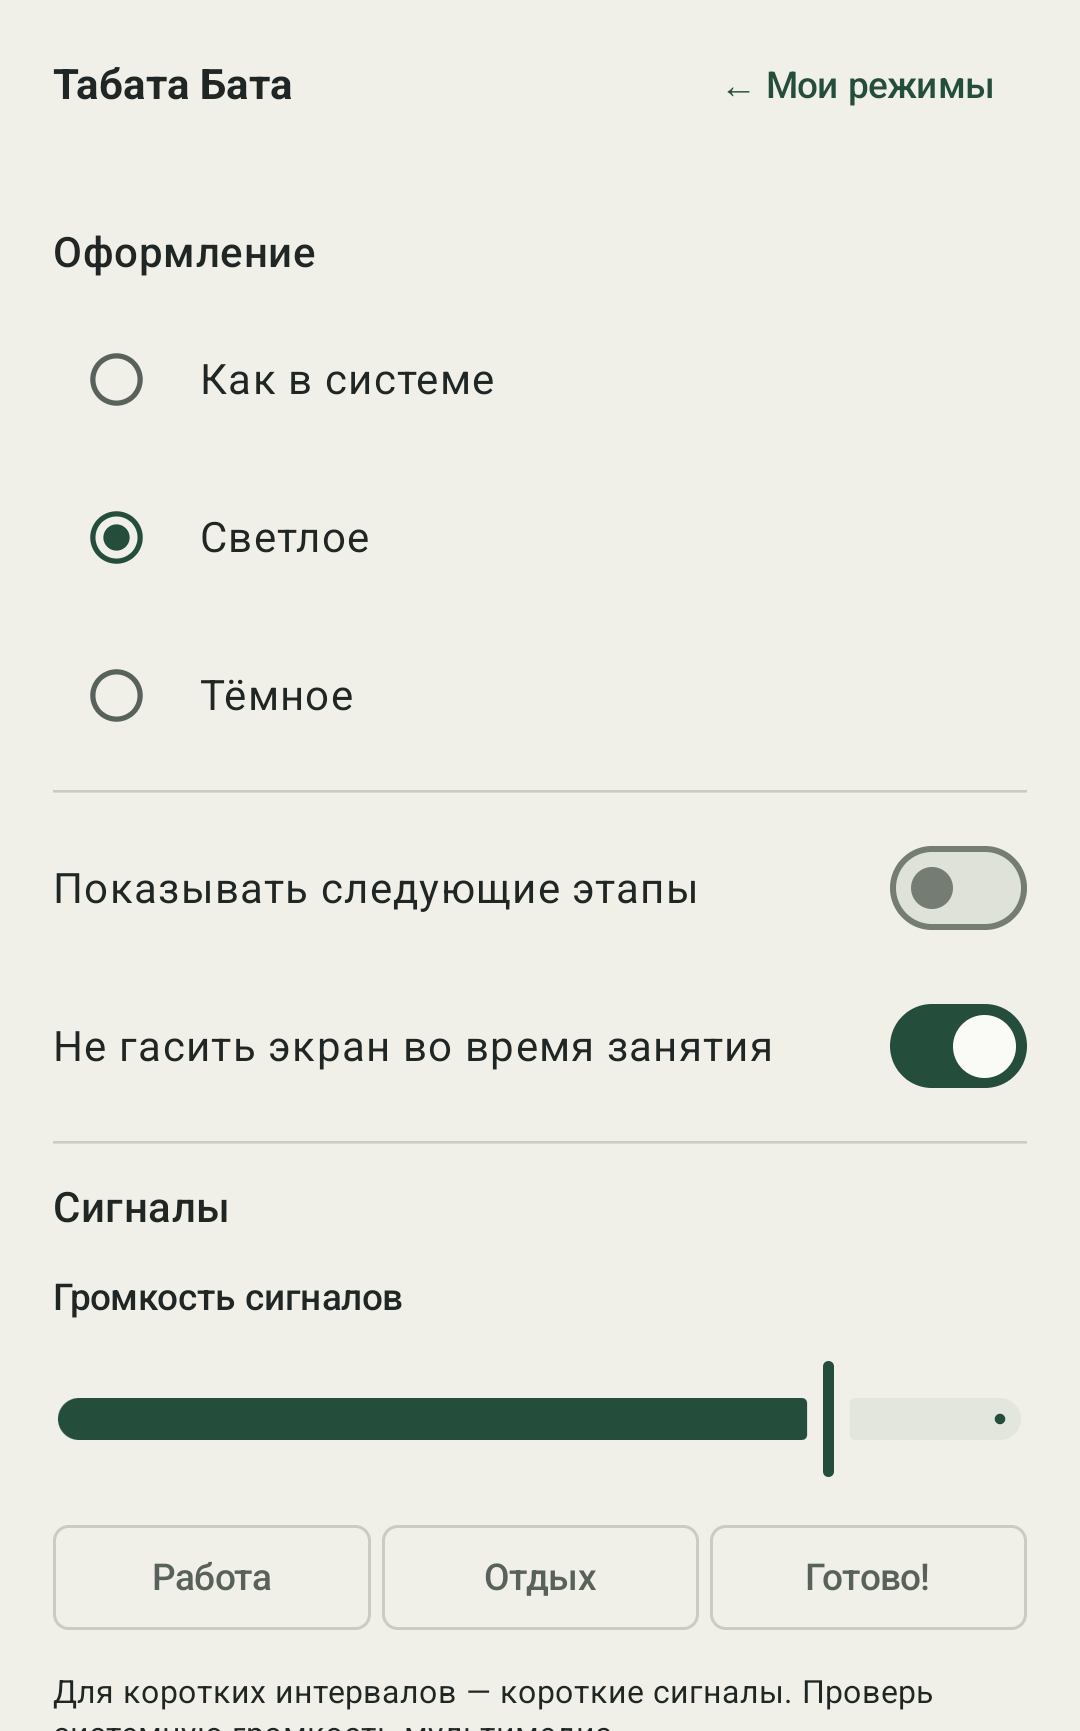
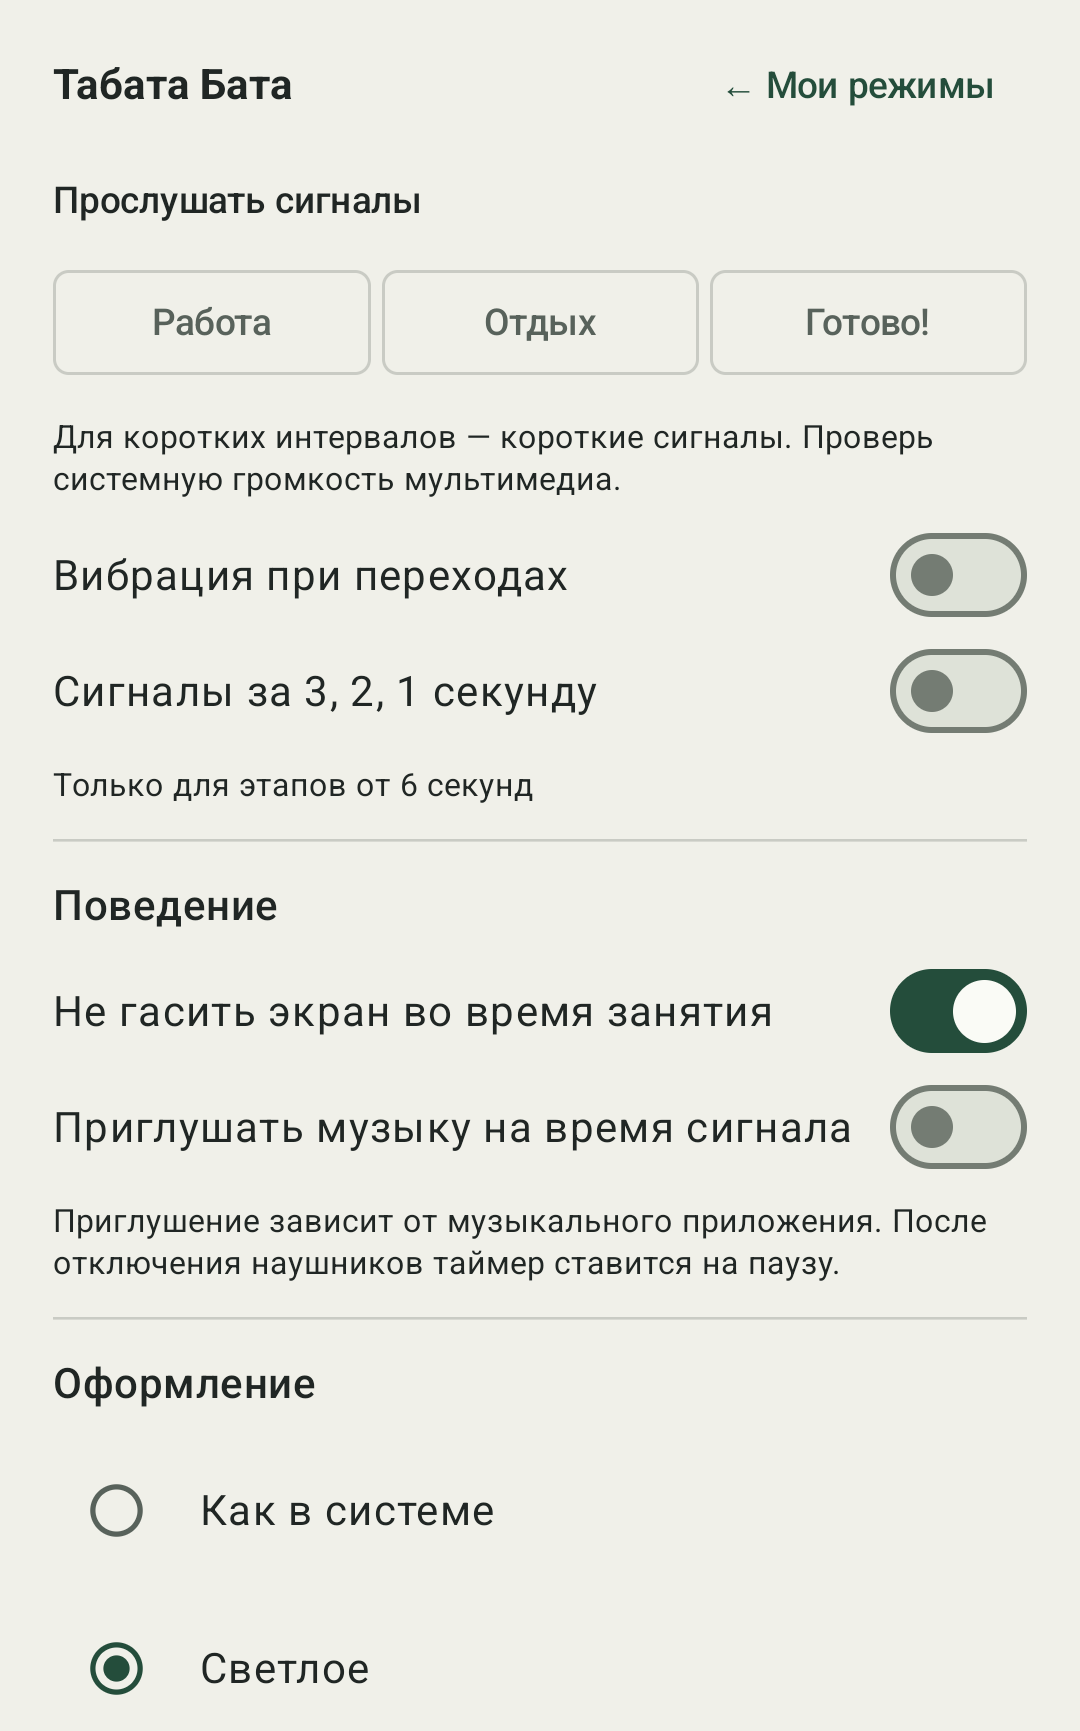
Document verified 0.3.0 and refresh 22 emulator screenshots [skip ci]

diff --git a/docs/VALIDATION.md b/docs/VALIDATION.md
@@ -67,3 +67,13 @@ GitHub Actions [38698503070](https://github.com/DanilaH/tabata-bata/actions/runs
 - Реальная доставка событий в тестовую AppMetrica, показ demo-рекламы/ошибки/частоты, отсутствие блокировки таймера. Debug TabataEvents подтверждает локальные события, а не их доставку на сервер.
 
 Production-реклама и показатели выручки пока не проверены: реальные аккаунтные значения отсутствуют. Регистрация RuStore и рекламный договор — разные действия; договор пользователя здесь не инспектировался.
+
+## UX 0.3.0 — 15 октября
+
+Итоговый CI: https://github.com/DanilaH/tabata-bata/actions/runs/38723306004 (source 93997929f004b6dd59da4c29775e16c382a44ec3). PASS: 17 unit tests, lintDebug, assembleDebug, assembleRelease; по 13 инструментированных тестов на эмуляторах Android 15 / 16. Внешний force-stop / same-version reinstall / manual recovery smoke также PASS на обеих версиях. APK versionCode=3, versionName=0.3.0 подписан прежним постоянным ключом, apksigner verify v2/v3 PASS.
+
+Добавлены проверки: черновик с некорректным вводом после переходов и пересоздания Activity; сброс изменений без изменения исходного режима; запуск изменённого режима, возврат к его черновику и сохранение; экран завершения с фактическим временем/раундами. Unit-тесты: время без пауз/пропусков, отсутствие двойного зачёта повторно пройденных этапов, восстановление статистики, разбор секунд и мин:сек. Черновики удаляются только после успешного сохранения режима.
+
+Скриншоты в store-assets/ru обновлены из финального API 35 прогона: редактор, сохранённые, работа/отдых/пауза/блокировка, остановка/завершение, обе темы настроек, landscape с fontScale=1.5. settings-signals-* показывают верх настроек; settings-* — область оформления после прокрутки. Визуально проверены редактор, основные состояния, результат, настройки и landscape.
+
+Пределы: это эмуляторы, не физические устройства. TalkBack имеет названия действий и доступное действие разблокировки, но голосовой обход TalkBack на устройстве ещё не проверен. Аппаратные звук/Bluetooth/звонки/длительный фон, реальная доставка аналитики и demo-рекламы остаются в ручной проверке. Same-version reinstall не доказывает миграцию с 0.2.0; пользовательский APK использует тот же ключ для обновления поверх неё. Голосовые подсказки и новая яркая палитра в эту версию не входят.

diff --git a/docs/ROADMAP.md b/docs/ROADMAP.md
@@ -38,4 +38,4 @@
 
 Пауза рядом с отсчётом, блокировка с удержанием и доступным long-click, следующая фаза одной строкой по умолчанию. Карточка открывает редактор, отдельная кнопка запускает. Результаты считают активное время и уникальные полностью пройденные рабочие этапы, исключают паузы и пропуски; checkpoint сохраняет статистику. Для старых checkpoint результат не выдумывается.
 
-Настройки: сигналы, поведение, оформление, данные. Подписи переключателей кликабельны. Голос, история и новая палитра отложены. Проверки 0.3.0 ещё выполняются; результаты фиксируются в VALIDATION.md после CI.
+Настройки: сигналы, поведение, оформление, данные. Подписи переключателей кликабельны. Голос, история и новая палитра отложены. Проверки 0.3.0 завершены: 17 unit-тестов и по 13 Android-тестов на API 35/36, lint и сборки PASS. Подробности и аппаратные ограничения в VALIDATION.md.
